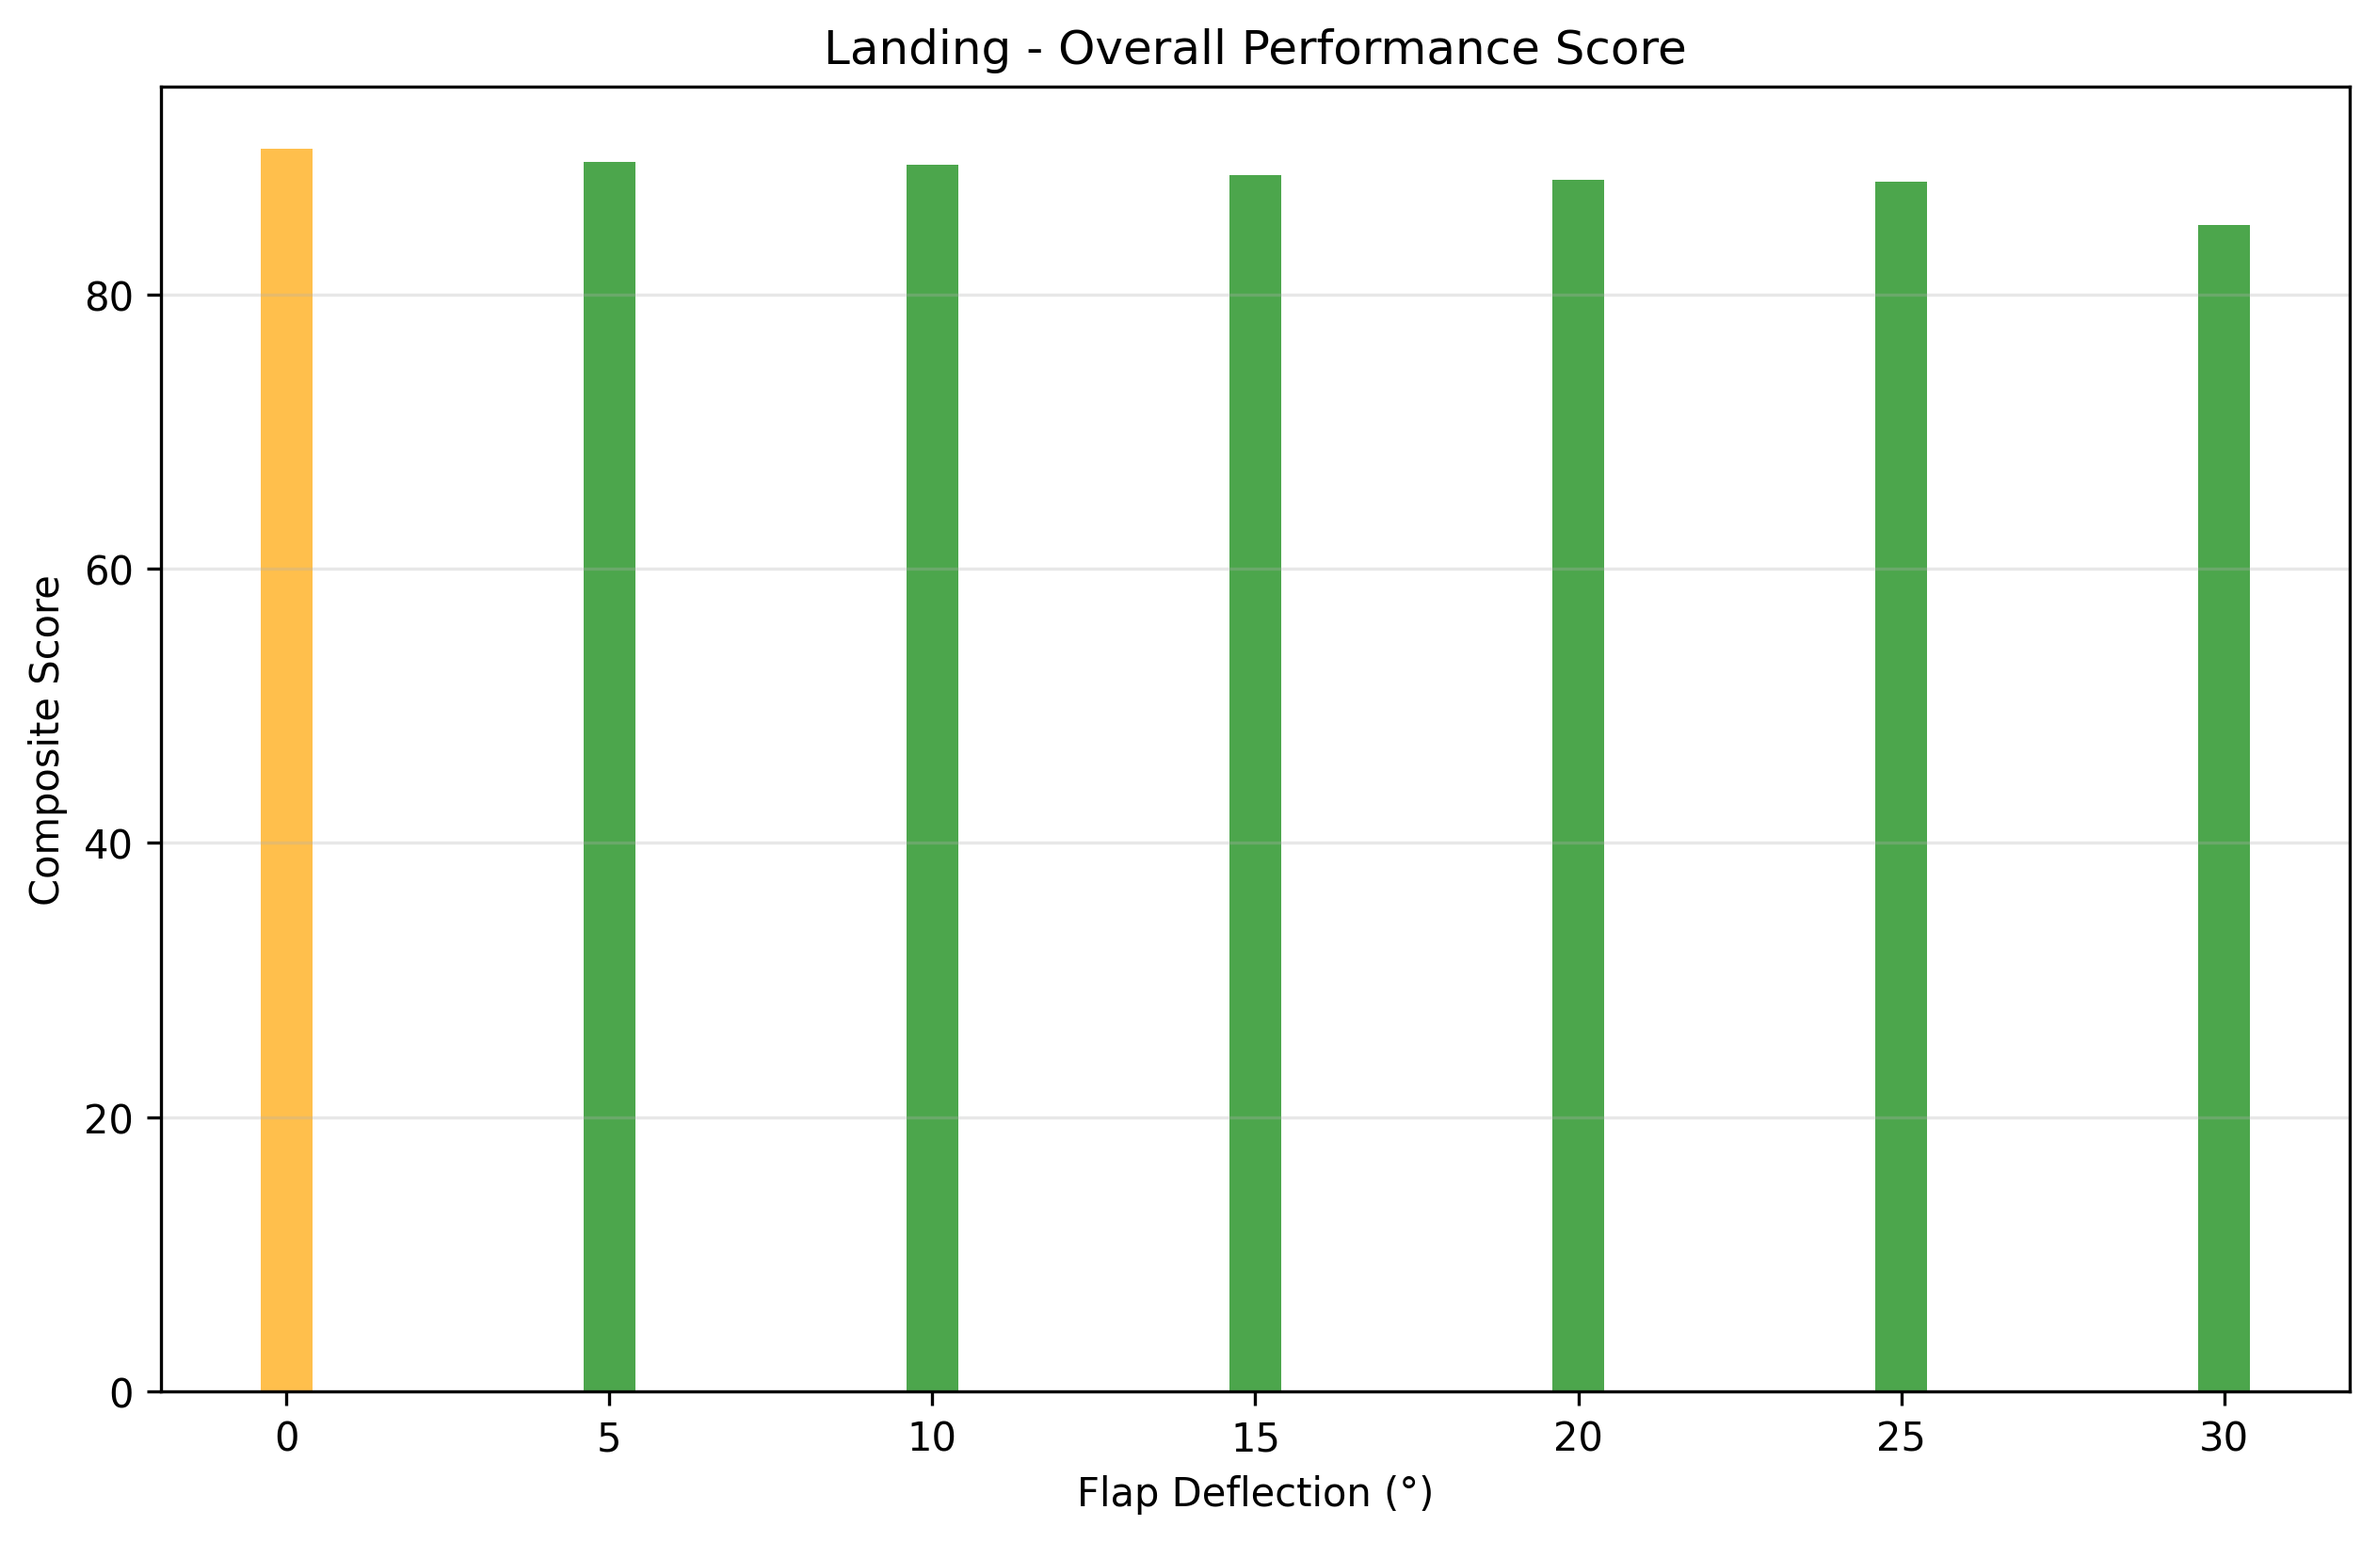
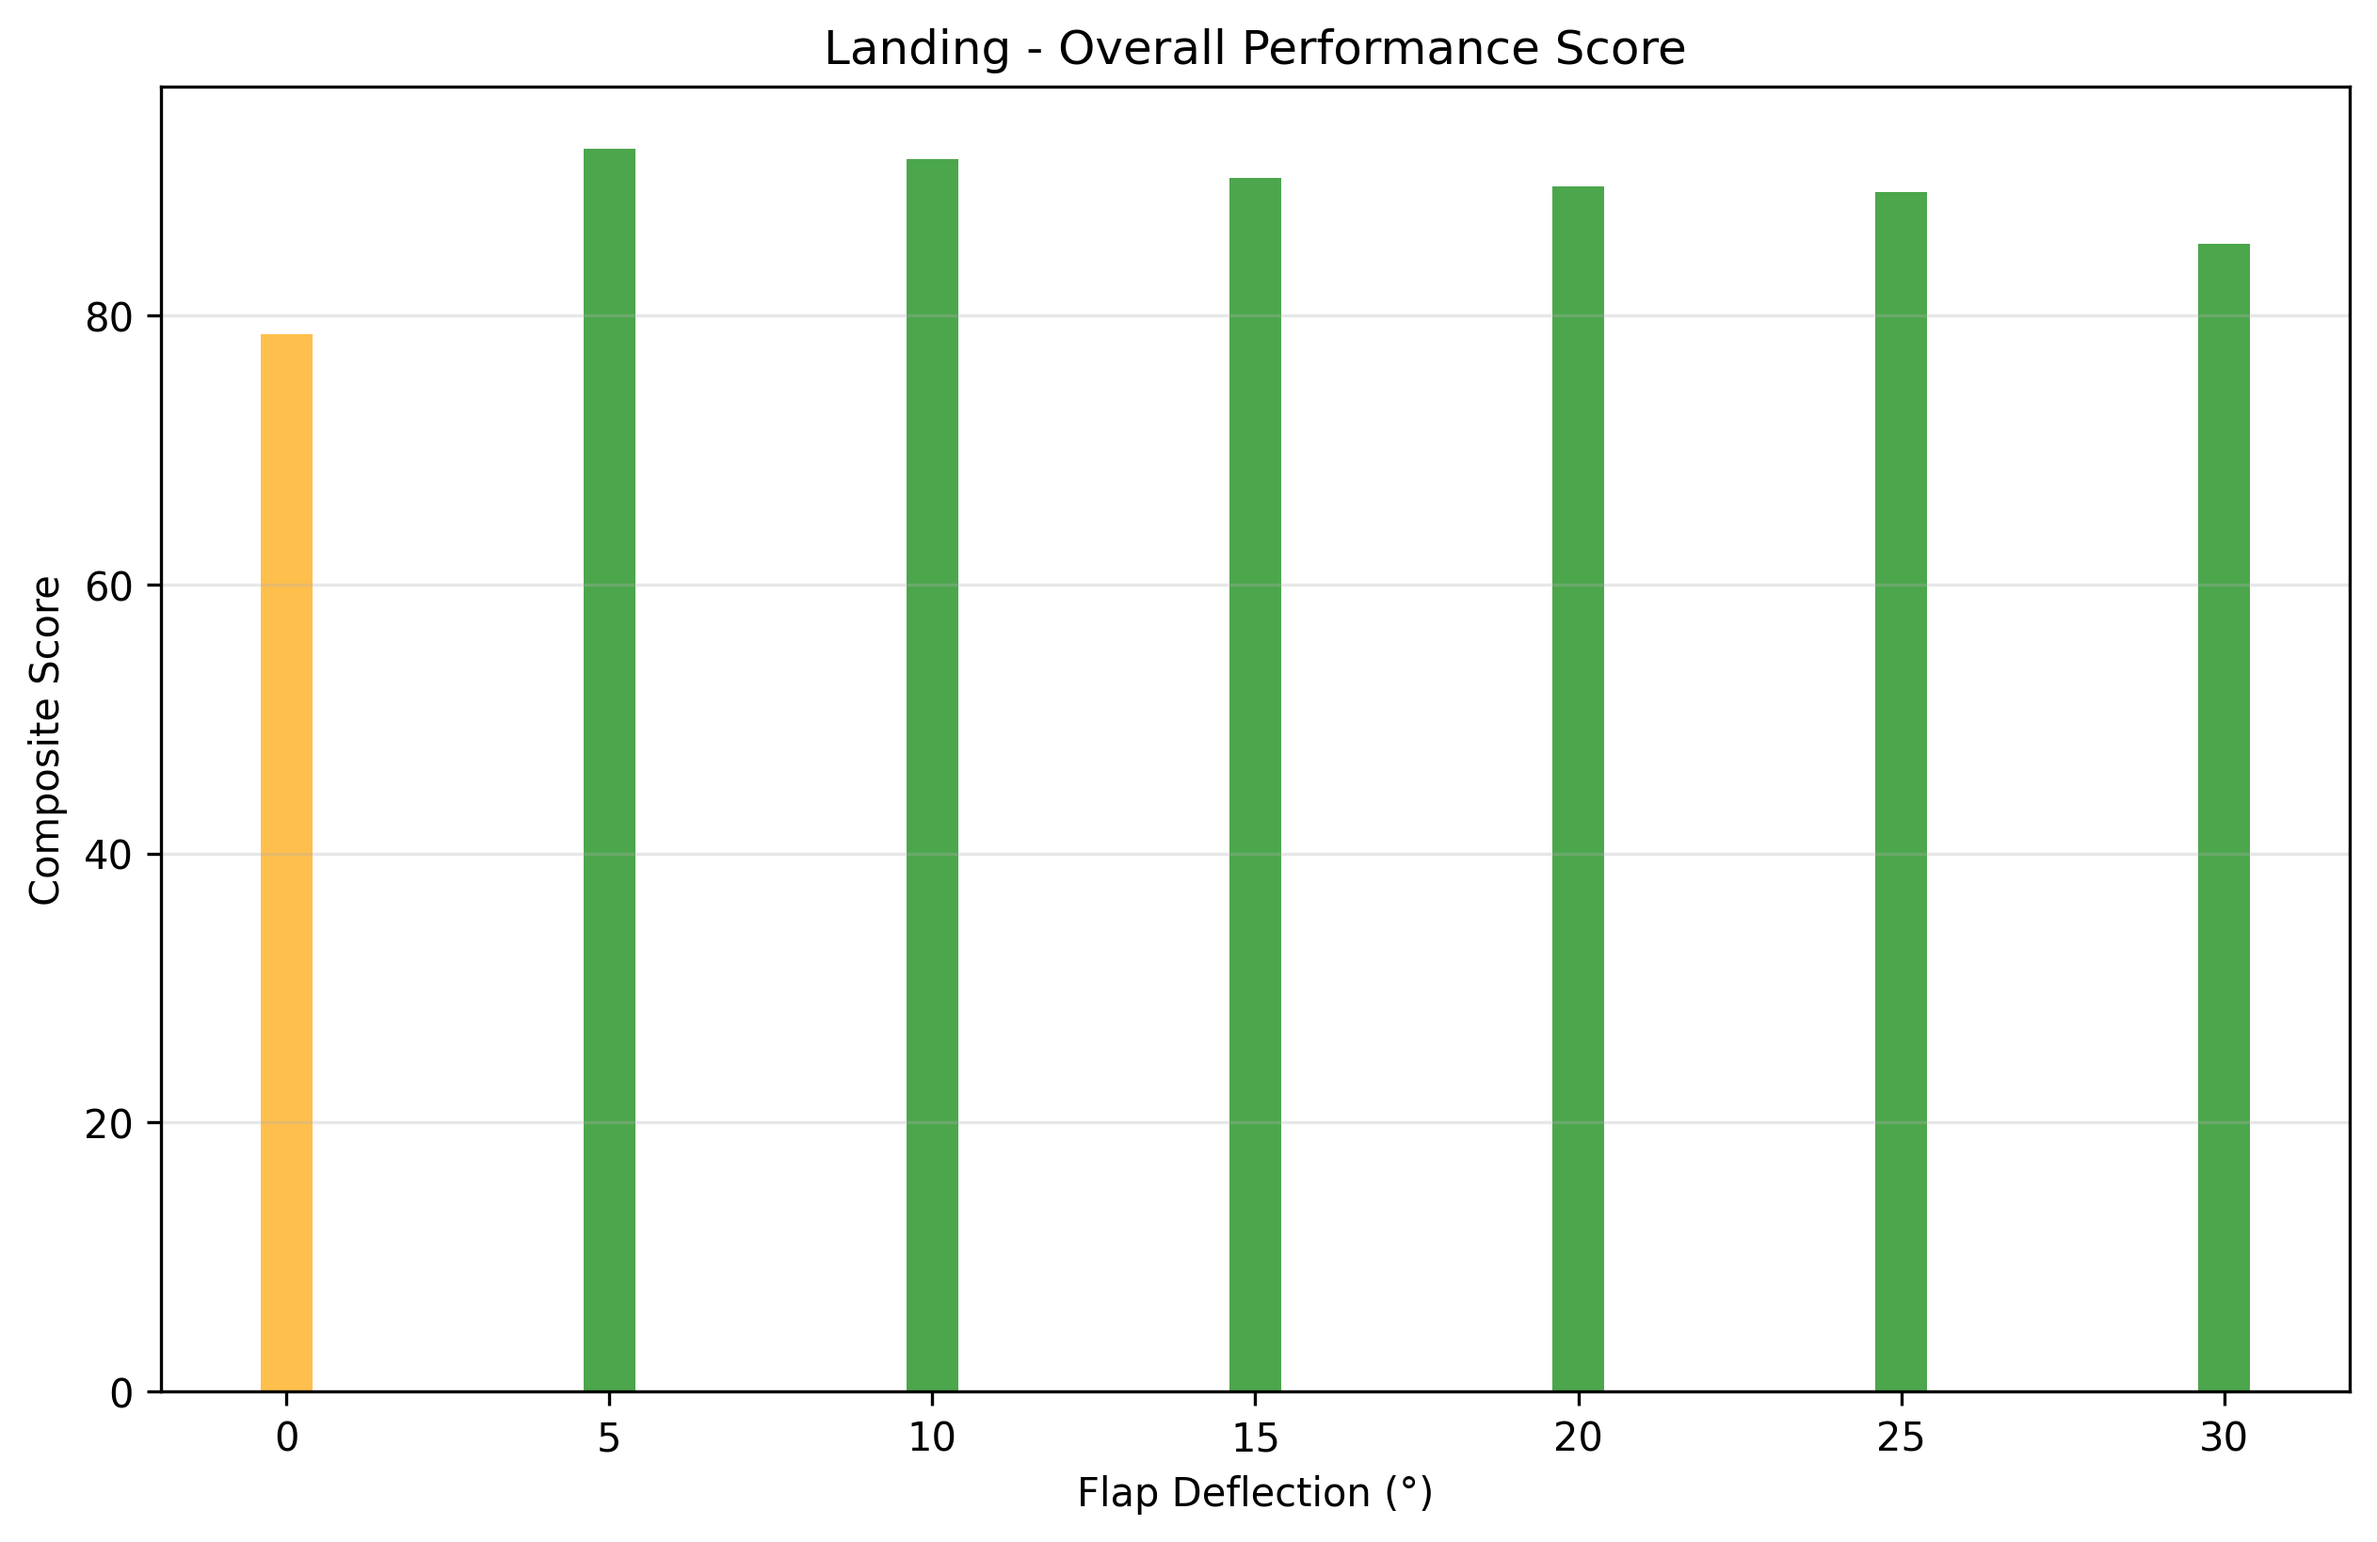
Added stronger penalty for AoA outside preffered operational range for landing or take-off

diff --git a/Flap_optimiser.py b/Flap_optimiser.py
@@ -208,16 +208,29 @@ class ImprovedFlapAnalyzer:
         max_realistic_LD = 35
         scores['efficiency'] = 100 * min(optimal_op['LD'] / max_realistic_LD, 1.2)
         
-        # Alpha quality scoring (20%)
-        if optimal_op['in_preferred_range']:
-            pref_range = req['preferred_alpha_max'] - req['preferred_alpha_min']
-            alpha_position = (optimal_op['alpha'] - req['preferred_alpha_min']) / pref_range
-            scores['alpha_quality'] = 100 * (1 - alpha_position * 0.3)
-        elif optimal_op['alpha'] < req['preferred_alpha_min']:
-            scores['alpha_quality'] = 110
+        # Alpha quality scoring
+        # Heavier penalty for landing phase when operating alpha is outside preferred range.
+        pref_min = req['preferred_alpha_min']
+        pref_max = req['preferred_alpha_max']
+        alpha = optimal_op['alpha']
+
+        landing_penalty_factor = 80.0   # example: lose 80 points per degree outside preferred range
+        other_penalty_factor = 20.0     # example for takeoff or other phases
+
+        penalty_factor = landing_penalty_factor if phase == 'landing' else other_penalty_factor
+
+        if pref_min <= alpha <= pref_max:
+            pref_range = max(pref_max - pref_min, 1e-6)
+            alpha_position = (alpha - pref_min) / pref_range
+            scores['alpha_quality'] = 100 * (1 - alpha_position * 0.15)
         else:
-            excess = optimal_op['alpha'] - req['preferred_alpha_max']
-            scores['alpha_quality'] = max(30, 100 - excess * 20)
+            if alpha < pref_min:
+                dist = pref_min - alpha
+            else:
+                dist = alpha - pref_max
+
+            raw_score = 100 - dist * penalty_factor
+            scores['alpha_quality'] = max(0.0, min(110.0, raw_score))
         
         # Stall margin scoring (15%)
         if safe_stall_margin:

diff --git a/ideal_NACA_finder.py b/ideal_NACA_finder.py
@@ -4,7 +4,7 @@ import numpy as np
 # User-configurable scoring and filter parameters
 
 # STAGE 1: HARD REQUIREMENTS (Filtering)
-CM_FILTER_THRESHOLD = 0.1  # Maximum acceptable pitching moment (|Cm|)
+CM_FILTER_THRESHOLD = 0.1 # Maximum acceptable pitching moment (|Cm|)
 CL_MIN_REQUIREMENT = 1.2  # Minimum Cl required at reasonable AoA for landing/takeoff (0-8°)
 
 # STAGE 2: OPTIMIZATION WEIGHTS (Updated priorities)
